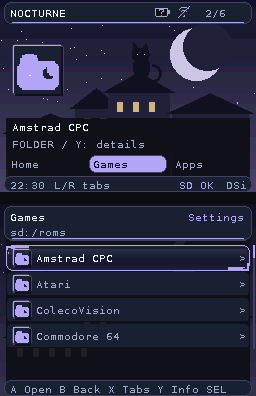
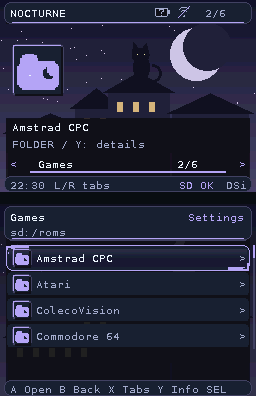
Give bundled themes distinct category navigation styles

Changed region(s): [[0.0312, 0.3939, 0.875, 0.4545]]

diff --git a/docs/guides/THEME_PACKAGES.md b/docs/guides/THEME_PACKAGES.md
@@ -367,6 +367,11 @@ continues to stop marquees. These controls do not move touch targets: navigation
 is on the non-touch top screen. Item information and Library Index retain their
 sidebar workspace and use the same tab presentation there.
 
+Copper and Prism demonstrate icon docks; Glacier demonstrates icon tiles.
+Nocturne and Eclipse demonstrate Pager. Folio, Phosphor and Ember demonstrate
+numbered tabs. Slate, Tide and Garnet retain labels with outline/underline
+selection treatments.
+
 ## Theme icon packs
 
 Optional package-local icons replace the generic symbols used in browser rows,
